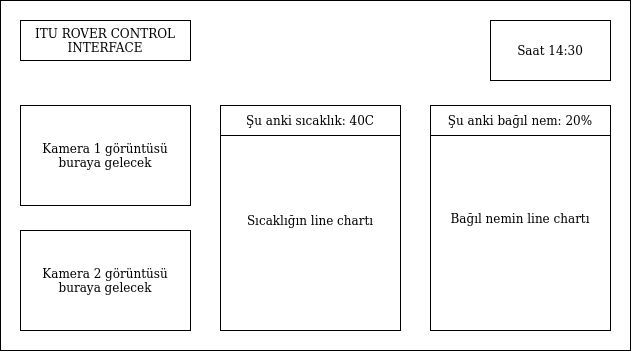
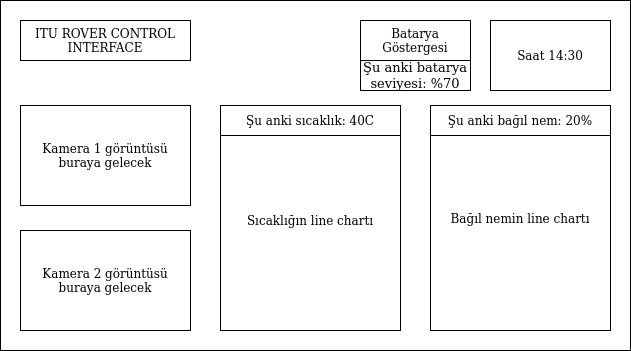
Update README.md

Changed region(s): [[0.5721, 0.057, 0.7528, 0.2564], [0.813, 0.114, 0.9334, 0.1709], [0.7227, 0.057, 0.7528, 0.0855]]

diff --git a/README.md b/README.md
@@ -53,15 +53,30 @@ Rosbag aşağıdaki topiclerden mesajlar içermektedir:
 Bu topicte [std_msgs/String](http://docs.ros.org/en/lunar/api/std_msgs/html/msg/String.html) türünde bir veri bulunmaktadır. Paylaşılan veri [Unix Epoch](https://en.wikipedia.org/wiki/Unix_time) zaman gösterimine uygun olarak 1970'ten beri geçen saniye olarak özetlenebilir. Burada görselleştireceğiniz veri bu gösterimin insan tarafından yorumlanabilir hali olacaktır.
 `Örneğin; '1670404170.9' verisi Çarşamba, Aralık 7, 2022 12:09:30 PM'e denk gelmektedir. Arayüzde 12:09:30'un görünmesi yeterlidir.`
 
+**/rover/interface/voltage**
+
+Bu topicte [std_msgs/Float32](http://docs.ros.org/en/lunar/api/std_msgs/html/msg/Float32.html) türünde bir veri bulunmaktadır. Paylaşılan veri volt cinsinden ölçülen batarya gerilimini temsil eder. Görselleştirirken [Arayüz İçeriği](#arayüz-içeriği) kısmında gösterildiği gibi batarya seviyesi göstergesinin yanında kalan kapasite yüzde cinsinden gösterilmelidir.
+
+Batarya kapasitesi yaklaşık olarak şu şekilde hesaplanır:
+
+Kalan kapasite (yüzde) = 100 * (Şu anki voltaj - 21.6) / 4.2
+`Örneğin; 24.6 V için 100 * (24.6 - 21.6) / 4.2 = 71%`
+
+Bu verinin yayınlanma periyodu 0.05 saniyedir.
+
 **/rover/interface/temperature**
 
 Bu topicte [std_msgs/Float32](http://docs.ros.org/en/lunar/api/std_msgs/html/msg/Float32.html) türünde bir veri bulunmaktadır. Paylaşılan veri santigrat cinsinden ölçülen sıcaklığı temsil eder. Görselleştirirken bu sayının yanına C° yazmanız ve de noktadan sonra tek hane bulunması gereklidir.
 `Örneğin; 36.2331 değeri için 36.2 C°`
 
+Bu verinin yayınlanma periyodu 0.5 saniyedir.
+
 **/rover/interface/humidity**
 
 Bu topicte [std_msgs/Float32](http://docs.ros.org/en/lunar/api/std_msgs/html/msg/Float32.html) türünde bir veri bulunmaktadır. Paylaşılan veri yüzde cinsinden ölçülen bağıl nemi temsil eder. Görselleştirirken bu sayının yanına % yazmanız ve de noktadan sonra hane bulunmaması gereklidir.
 `Örneğin; 72.4 değeri için 72%`
+
+Bu verinin yayınlanma periyodu 0.2 saniyedir.
 
 **/rover/camera/one**
 Bu topicte [sensor_msgs/Image Message](http://docs.ros.org/en/noetic/api/sensor_msgs/html/msg/Image.html) türünde bir veri bulunmaktadır. Paylaşılan veri görüntü şeklindedir. Görüntü anlık olarak güncellenmelidir.
@@ -74,4 +89,14 @@ Bu topicte [sensor_msgs/Image Message](http://docs.ros.org/en/noetic/api/sensor_
 <img src="media/scheme.png" width="650" height="350" />
 </div>
 
-Yukarıdaki şematiğe uygun biçimde istenilen görselleştirmeleri yapmanızı istiyoruz. Sıcaklık ve bağıl nem görselleştirmeleri 'line chart' olarak anlık olarak 1 dakikadaki veriler görüntülenmelidir. Grafik çizdirmek için plotlyjs, chartjs gibi kütüphaneleri kullanabilirsiniz.
+Yukarıdaki şematiğe uygun biçimde istenilen görselleştirmeleri yapmanızı istiyoruz.
+
+<div align="center">
+<img src="media/line.png" width="640" height="400" />
+</div>
+Sıcaklık ve bağıl nem görselleştirmeleri yukarıdaki gibi bir 'line chart' olarak görselleştirmenizi istiyoruz. Veriler geldikçe grafiğe eklenmelidir ve son 1 dakika içerisinde gelen veriler görüntülenmelidir. Grafik çizdirmek için plotlyjs, chartjs gibi kütüphaneleri kullanabilirsiniz.
+
+<div align="center">
+<img src="media/battery.png" width="655" height="228" />
+</div>
+Batarya yüzdesi yukarıdaki gibi bir kısmi dolu bir pil olarak görselleştirilmelidir.
